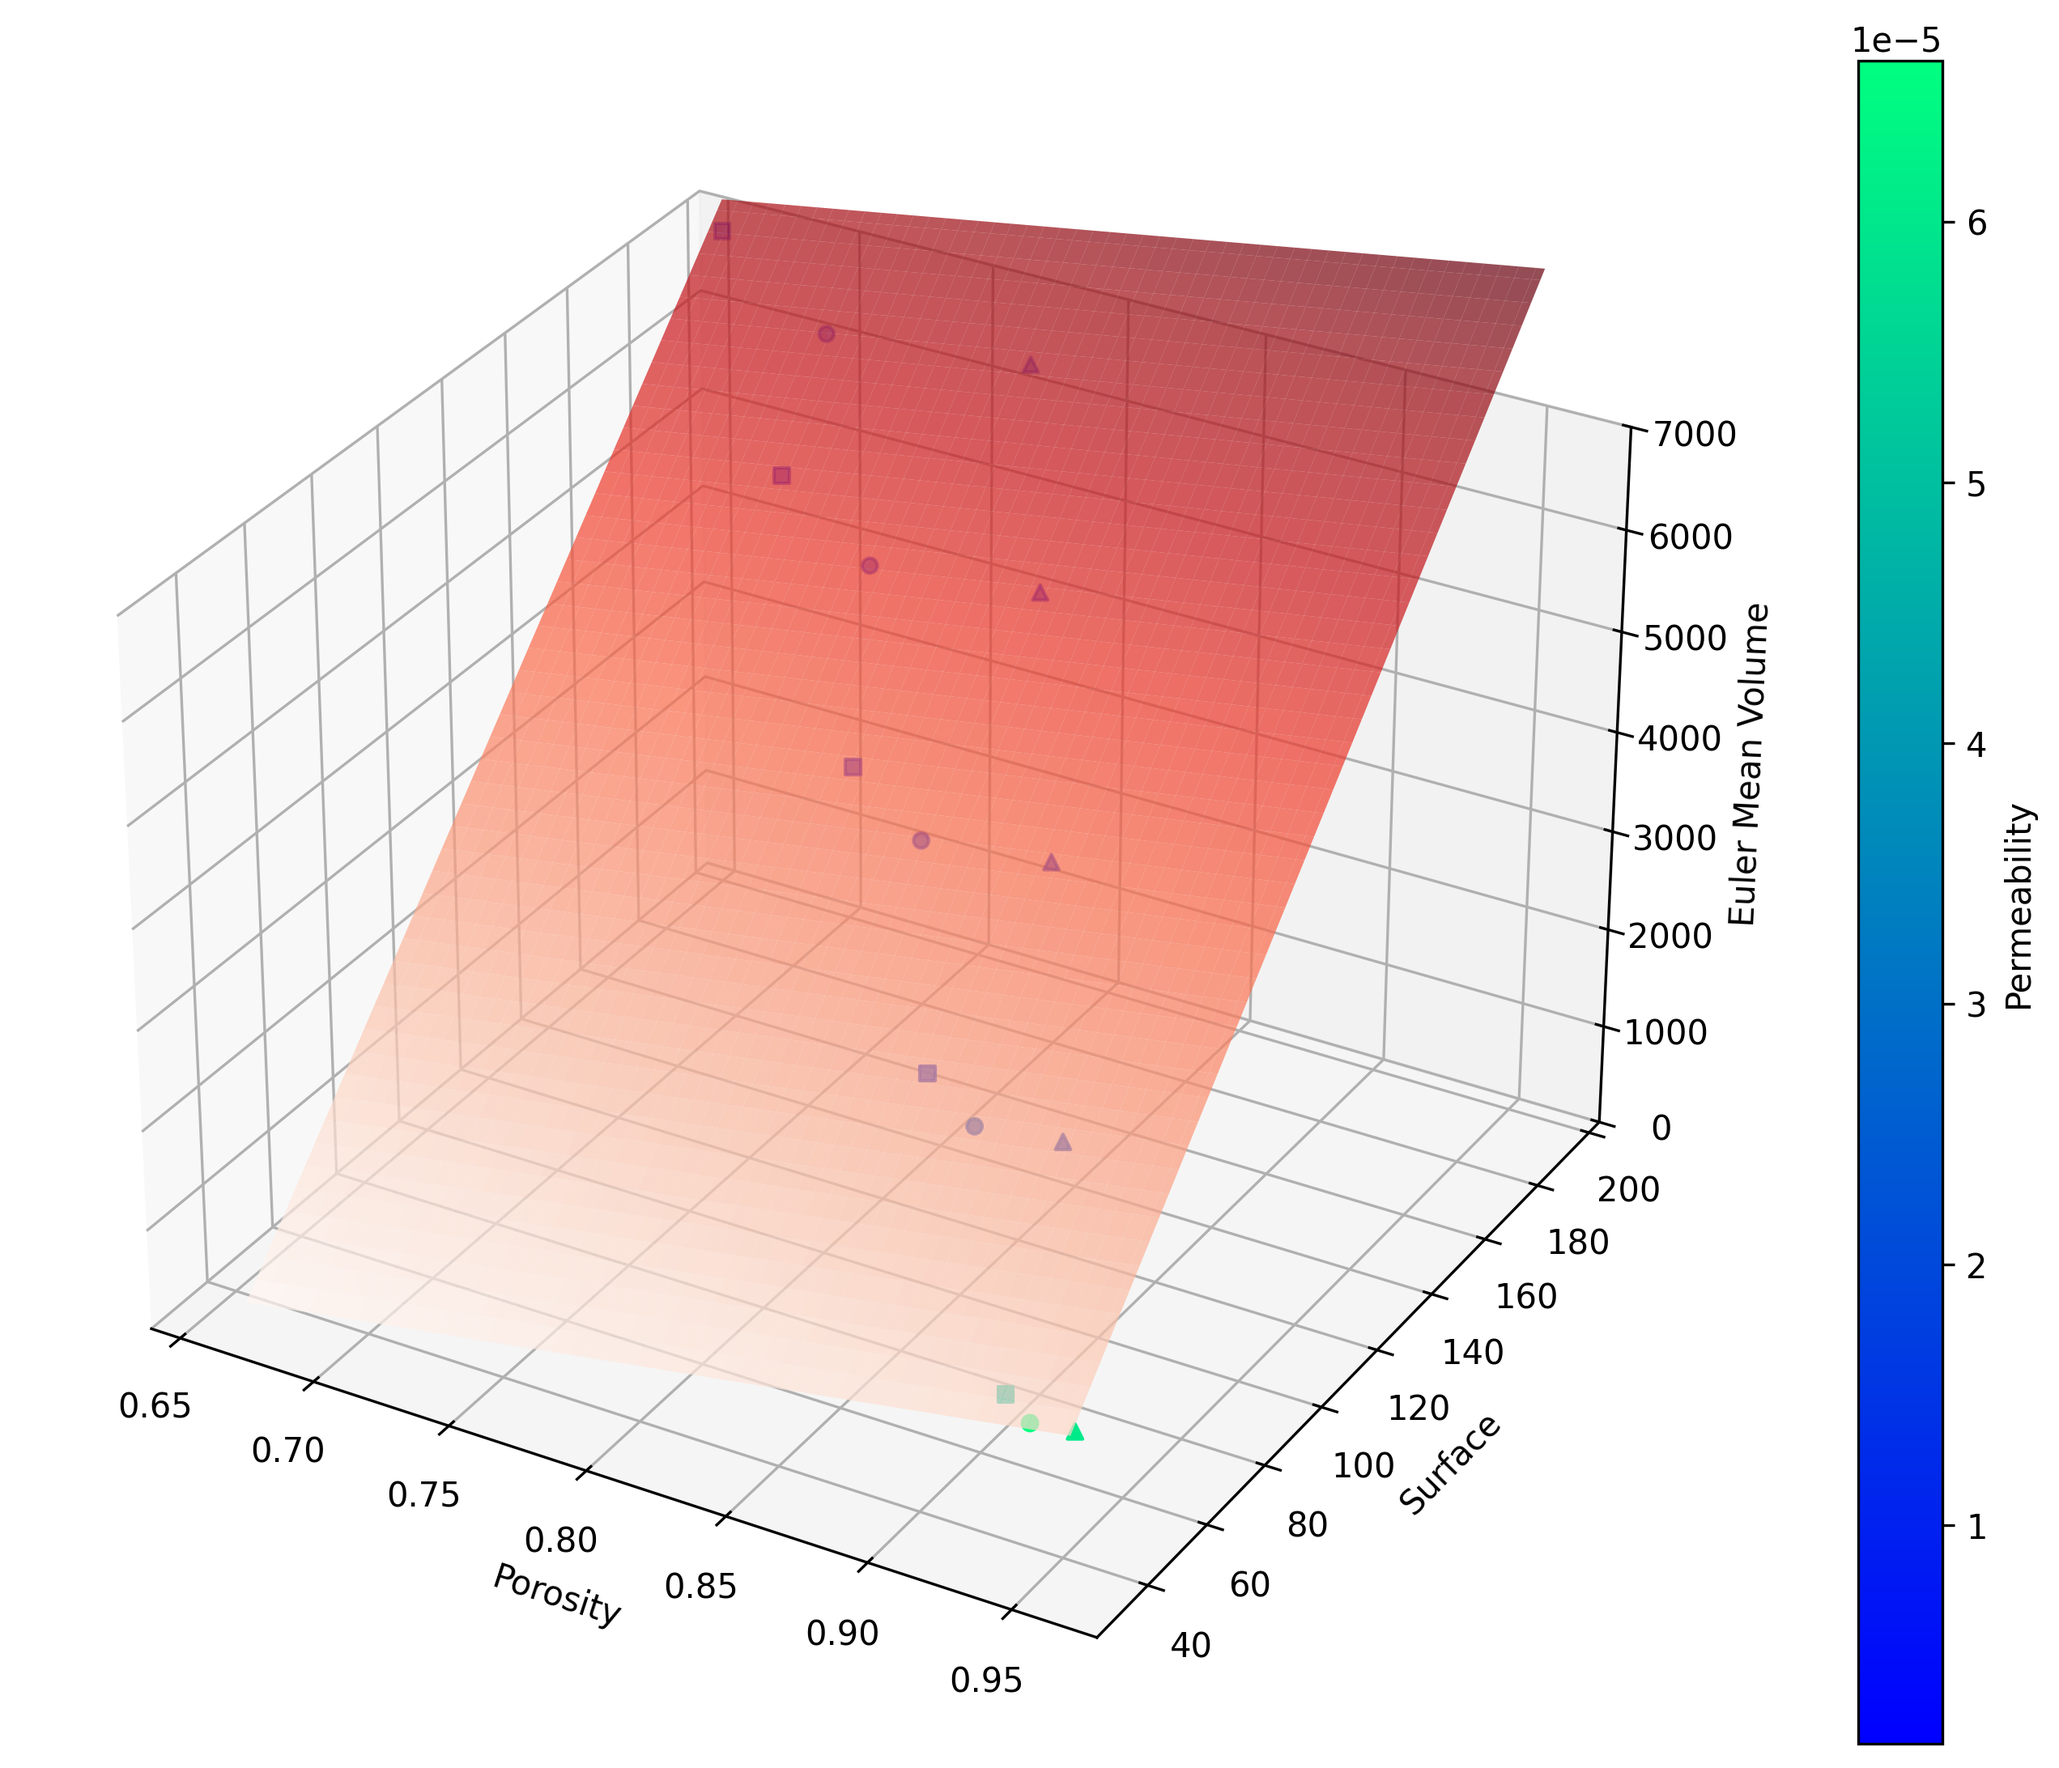
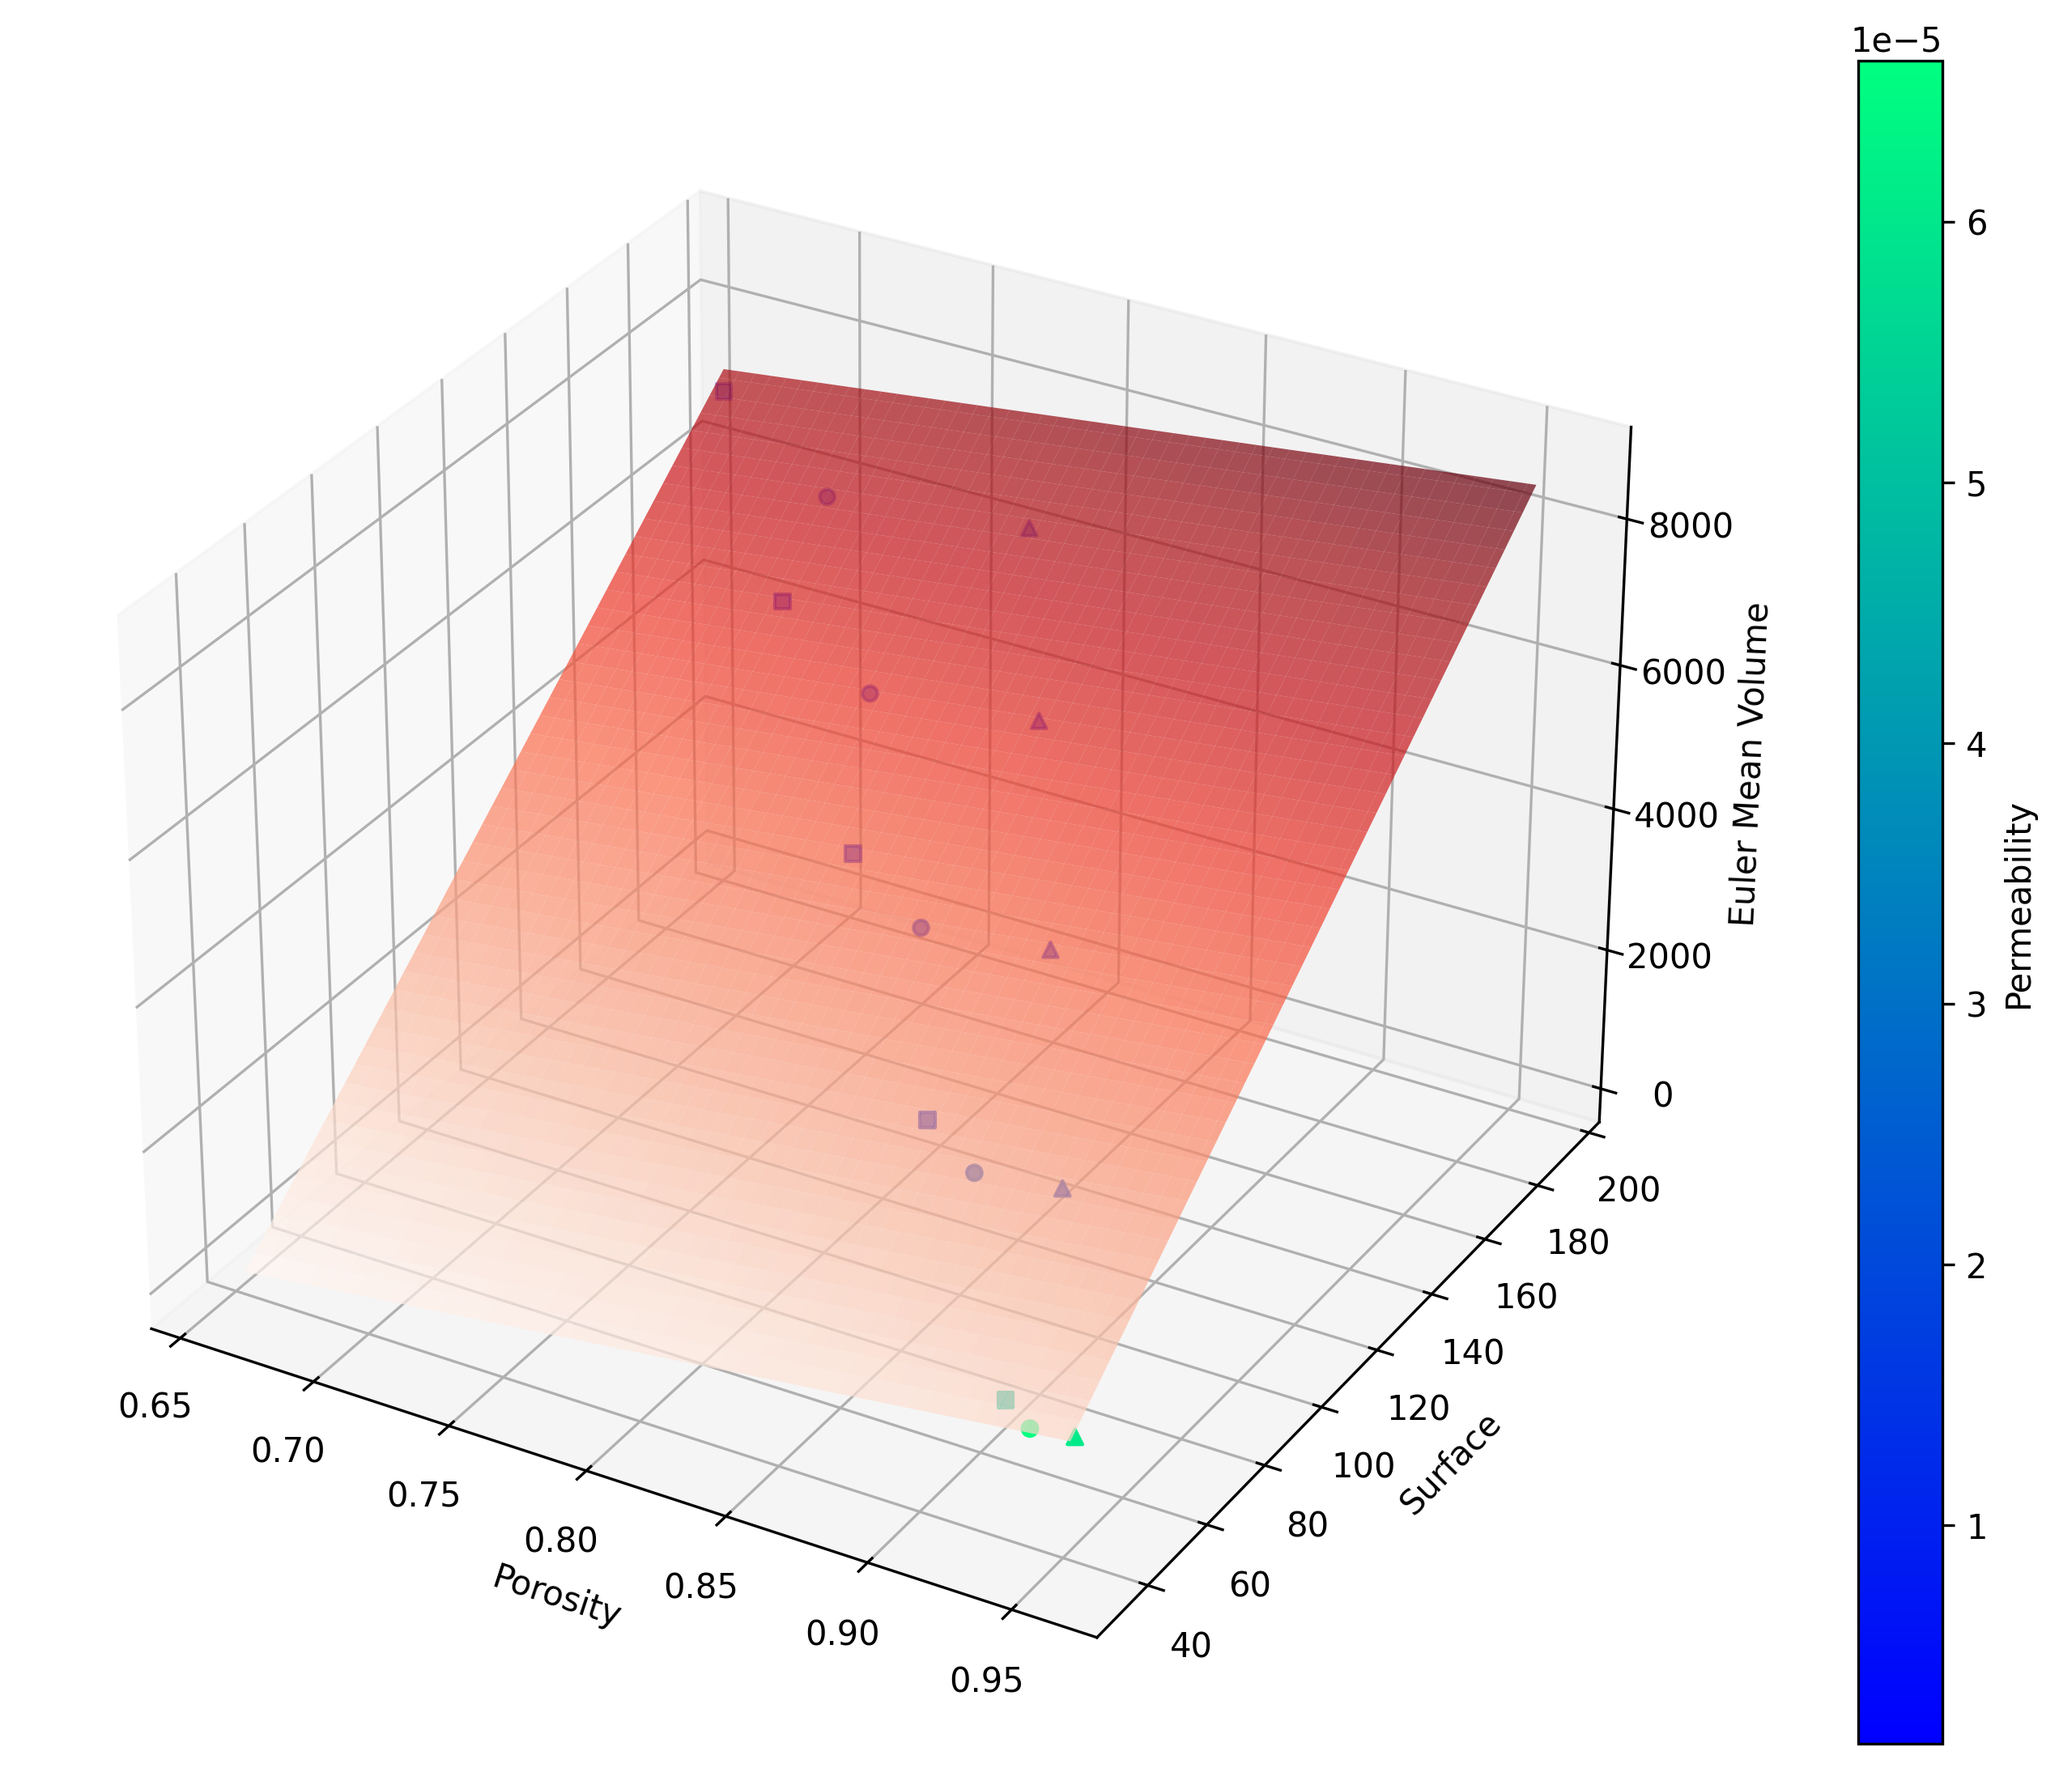
p

diff --git a/CNN/Permeability_CNN_db.py b/CNN/Permeability_CNN_db.py
@@ -7,7 +7,6 @@ import torch.nn.functional as F
 from sklearn.metrics import accuracy_score
 import os
 import sys
-import pandas as pd
 import glob
 import re
 from sklearn.model_selection import train_test_split
@@ -34,18 +33,29 @@ all_csv = glob.glob(os.path.join(csv_directory, "*.csv"))
 
 for file in all_csv:
     if 'circle' in file:
-        df = pd.read_csv(file)
+        #df = pd.read_csv(file)
+        with open(file, 'r') as f:
+            lines = f.readlines()
+        header = lines[0].strip().split(',')
+        data = [line.strip().split(',') for line in lines[1:]]
+        df = {col: [] for col in header}
+        for row in data:
+            for col, value in zip(header, row):
+                df[col].append(float(value) if col == 'Permeability' else value)
         packing_fraction = re.search(r'\d.\d+', file).group()
         shape = re.search(r'circle|ellipse|trinagle|rectangle', file).group()
         df['Packing_Fraction'] = packing_fraction
         df['Shape'] = shape
-        df['Model'] = df.index + 1  # Model number is one higher than the index of the dataframe
+        df['Model'] = list(range(1, len(df['Permeability'])))  # Model number is one higher than the index
         data_csv.append(df)
 
 # Extract permeability values from data_csv
 permeability_values = []
 for df in data_csv:
-    permeability_values.extend(df['Permeability'].values)
+    permeability_values.extend(df['Permeability'])
+
+# for df in data_csv:
+#     permeability_values.extend(df['Permeability'].values)
 
 print(len(permeability_values))
 
@@ -142,7 +152,7 @@ batch_size = 32
 trainloader = torch.utils.data.DataLoader(dataset_train, batch_size=batch_size, shuffle=True, num_workers=0)
 
 # Initialize the CNN
-cnn = MLPCNN()
+cnn = EvenCNN()
 # print(cnn)
 # print(f'Number of learnable parameters in {cnn._get_name()} model = {count_parameters(cnn)}')
 # Transfer model to your chosen device
@@ -241,7 +251,7 @@ axs[1].set_xlabel('Epoch')
 axs[1].set_ylabel('R squared')
 axs[1].legend()
 plt.suptitle('Loss and R squared curves during training', y=0.92)
-plt.savefig(os.path.join(os.path.dirname(os.path.abspath(sys.argv[0])), 'Loss_R_squared-MLPCNN.png'))
+plt.savefig(os.path.join(os.path.dirname(os.path.abspath(sys.argv[0])), 'Loss_R_squared-EvenCNN.png'))
 plt.show()
 
 # Evaluate model
@@ -266,5 +276,5 @@ ax.set_title('Ground Truth vs Predicted Values')
 ax.legend()
 # r_squared = 1 - np.sum((test_targets - test_predictions)**2) / np.sum((test_targets - np.mean(test_targets))**2)
 ax.text(0.05, 0.95, f'R^2: {R_squared_per_epoch[epoch-1]:.2f}', transform=ax.transAxes, fontsize=14, verticalalignment='top')
-plt.savefig(os.path.join(os.path.dirname(os.path.abspath(sys.argv[0])), 'Ground_Truth_vs_Predicted-MLPCNN.png'))
+plt.savefig(os.path.join(os.path.dirname(os.path.abspath(sys.argv[0])), 'Ground_Truth_vs_Predicted-EvenCNN.png'))
 plt.show()

diff --git a/3d_plots.py b/3d_plots.py
@@ -25,7 +25,7 @@ from sklearn.linear_model import LinearRegression
 from sklearn.metrics import mean_squared_error
 import scipy.optimize as opt
 plt.rcParams["figure.figsize"] = (16, 9)
-VARIANCE=True
+VARIANCE=False
 
 #Set desired SD
 SD=1
@@ -37,7 +37,7 @@ SD=1
 
 ################ READING ALL THE FILES IN THE FOLDER ################
 script_dir = os.path.dirname(__file__)
-sub_path = 'Threshold_homogenous_diamater_small_RCP'
+sub_path = 'Porespy_homogenous_diamater'
 path = os.path.join(script_dir, sub_path)
 variance_path=os.path.join(script_dir, 'Summaries', sub_path)
 # all_files = glob.glob(os.path.join(path, "*0.300*.csv"))
@@ -195,7 +195,7 @@ cbar = plt.colorbar(sc1, ax=ax, label='Permeability')
 ax.set_xlabel('Porosity')
 ax.set_ylabel('Surface')
 ax.set_zlabel('Euler Mean Volume')
-ax.set_zlim(0, 7000)
+#ax.set_zlim(0, 7000)
 plt.savefig(os.path.join(path, '3d_surface.png'), dpi=300, bbox_inches='tight', pad_inches=0.1)
 plt.show()
 
@@ -371,7 +371,7 @@ sc3 = ax.scatter(xdata_ellipse[0], xdata_ellipse[1], ydata_ellipse, c=xdata_elli
 cbar = plt.colorbar(sc1, ax=ax, label='Euler')
 # ax.plot_surface(x_mesh, y_mesh, z_mesh_poly, color='red', alpha=0.5, edgecolor='w', label='Fitted Polynomial Surface')
 ax.plot_surface(x_mesh, y_mesh, z_mesh_exp, color='yellow', alpha=0.5, edgecolor='w', label='Fitted Exponential Surface')
-ax.plot_surface(x_mesh, y_mesh, z_mesh_power, color='green', alpha=0.5, edgecolor='w', label='Fitted Power Law Surface')
+#ax.plot_surface(x_mesh, y_mesh, z_mesh_power, color='green', alpha=0.5, edgecolor='w', label='Fitted Power Law Surface')
 if VARIANCE:
         plot_box_and_whisker(ax, concatenated_df_rectangle['Porosity'], concatenated_df_rectangle['Surface'], concatenated_df_rectangle['Permeability'], one_sd_porosity_rectangle, one_sd_surface_rectangle, one_sd_permeability_rectangle, 'blue')
         plot_box_and_whisker(ax, concatenated_df_triangle['Porosity'], concatenated_df_triangle['Surface'], concatenated_df_triangle['Permeability'], one_sd_porosity_triangle, one_sd_surface_triangle, one_sd_permeability_triangle, 'red')

diff --git a/CNN/classes_cnn.py b/CNN/classes_cnn.py
@@ -154,10 +154,16 @@ class EvenCNN2000(nn.Module):
             nn.ReLU(),
             nn.MaxPool2d(kernel_size=2, stride=2, padding=1),
 
+            nn.Conv2d(256, 256, kernel_size=2),
+            nn.ReLU(),
+            nn.MaxPool2d(kernel_size=2, stride=2, padding=1),
 
             nn.Flatten(),
             ############## MLP LAYERS #############
-            nn.Linear(12800, 1),
+            nn.Linear(16384, 1024),
+            nn.ReLU(),
+            nn.Linear(1024, 64),
+            nn.Linear(64, 1)
         )
     def forward(self, x):
         return self.layers(x)
